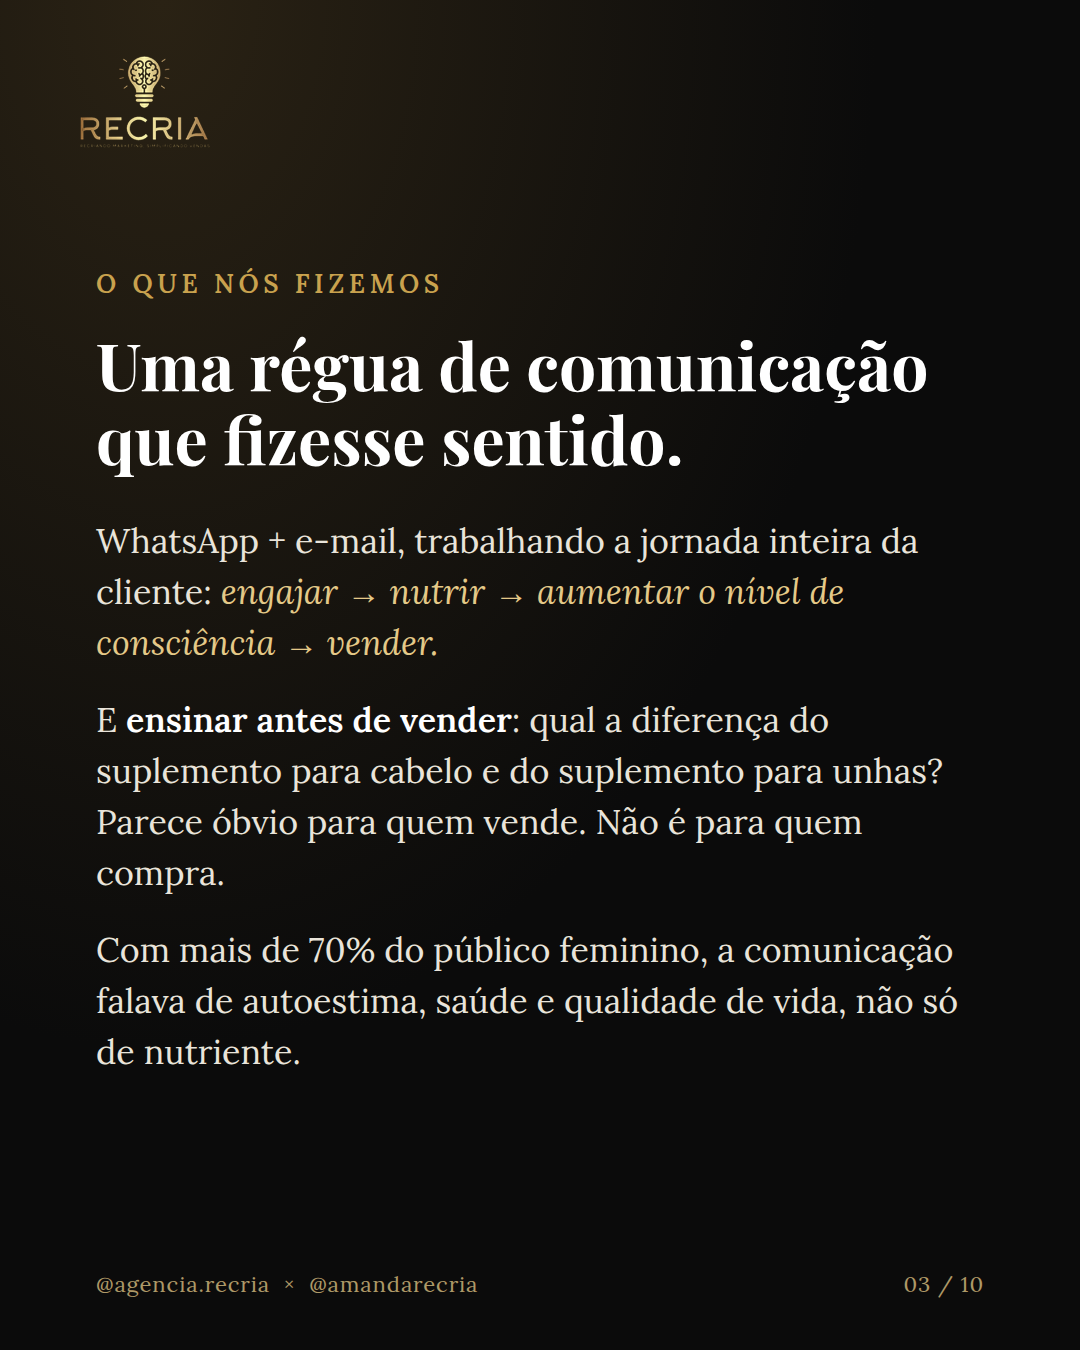
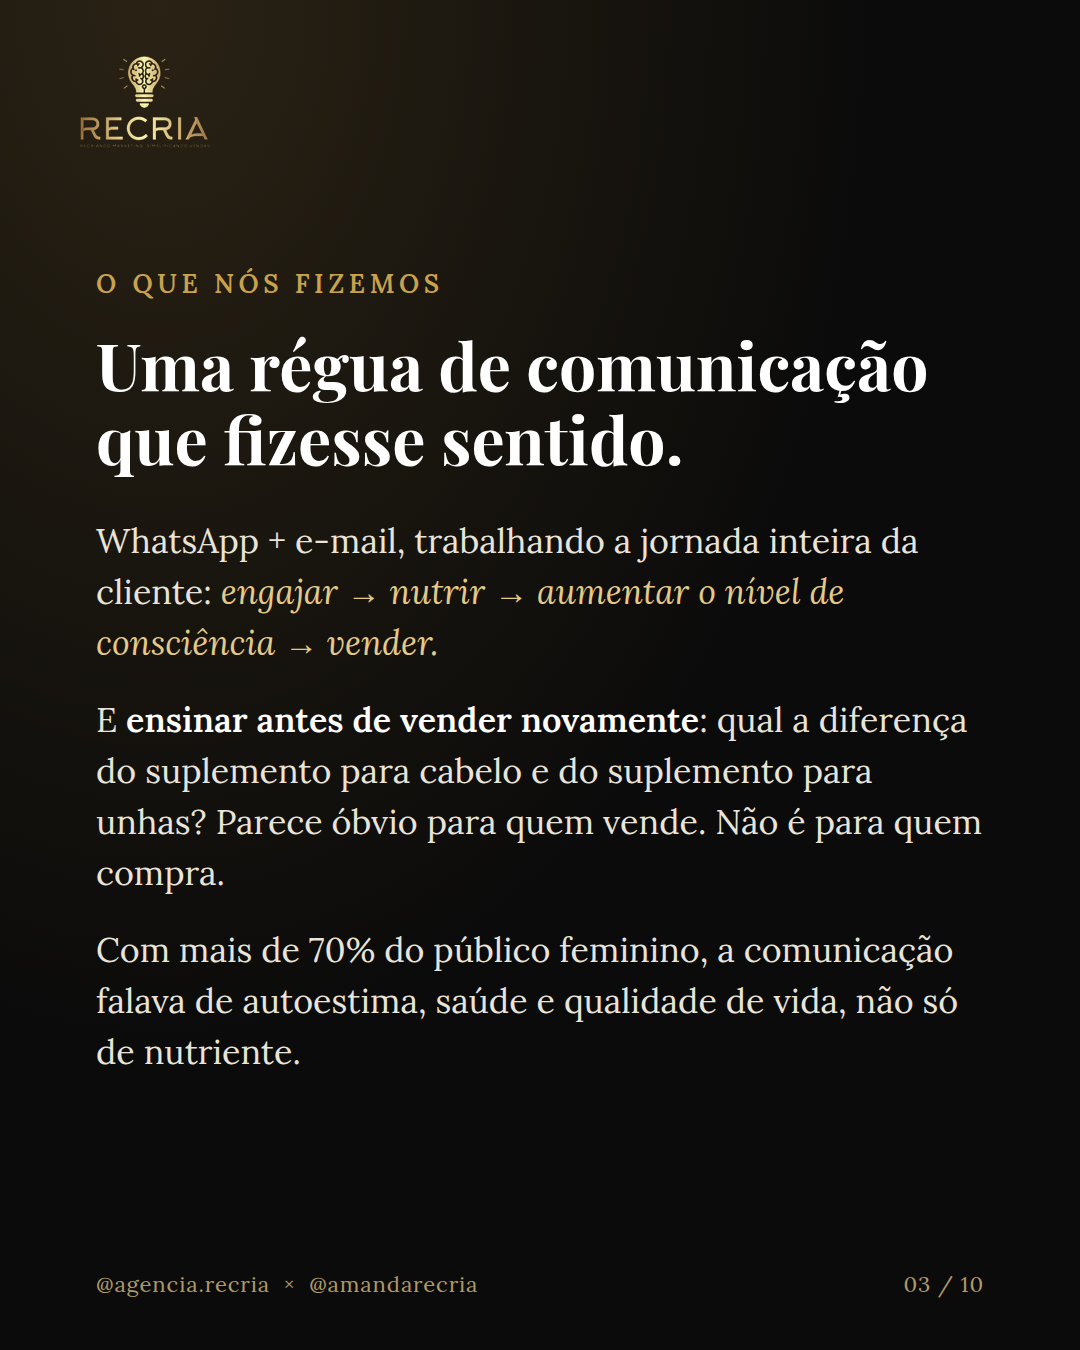
Carrossel 07/10: ajustes nos cards 3, 7 e 8
Claude-Session: https://claude.ai/code/session_01RDM8d5cVD9w4uwiMSyLkgt

Changed region(s): [[0.0917, 0.5289, 0.9167, 0.6222]]

diff --git a/agencia-recria/copies/carrosseis-outubro-2026.md b/agencia-recria/copies/carrosseis-outubro-2026.md
@@ -35,7 +35,7 @@ A empresa só entrava em contato com quem já era cliente para vender: oferta, o
 ### Card 3
 O que nós fizemos: **Uma régua de comunicação que fizesse sentido.**
 WhatsApp + e-mail, trabalhando a jornada inteira da cliente: engajar → nutrir → aumentar o nível de consciência → vender.
-E **ensinar antes de vender**: qual a diferença do suplemento para cabelo e do suplemento para unhas? Parece óbvio para quem vende. Não é para quem compra.
+E **ensinar antes de vender novamente**: qual a diferença do suplemento para cabelo e do suplemento para unhas? Parece óbvio para quem vende. Não é para quem compra.
 Com mais de 70% do público feminino, a comunicação falava de autoestima, saúde e qualidade de vida, não só de nutriente.
 
 ### Card 4
@@ -57,7 +57,7 @@ Apenas valorizando e comunicando de forma personalizada com cada tipo de cliente
 
 ### Card 7
 **A cliente se sentiu acolhida e valorizada.**
-Essa base estava havia 4 anos com a marca. Comprava só quando ela mesma decidia, ou nem voltava, porque só recebia oferta.
+Essa base já estava ativa havia 4 anos com a marca. Porém, só comprava quando a própria cliente decidia comprar, ou nem voltava, porque era metralhada de oferta, oferta, oferta. E isso gerava o efeito inverso: **repelia a volta**.
 Quando percebeu que a empresa se importava com a nova vida que ela estava construindo, **o antes e o depois da bariátrica**, passou a se sentir parte da marca.
 Também criamos uma comunidade nos canais da marca. E ela passou a comprar todo mês e a adquirir os pacotes de assinatura, **mesmo sem oferta**.
 
@@ -65,7 +65,7 @@ Também criamos uma comunidade nos canais da marca. E ela passou a comprar todo 
 **Tráfego pago nem sempre é o salvador da pátria.**
 Você já pagou para conquistar cada cliente da sua base. **Quantas vezes você vendeu para ele? Só uma?**
 Já calculou o seu **CAC** (quanto custa conquistar um cliente) e o **LTV** (quanto ele deixa com você ao longo do tempo)?
-Às vezes o caminho é nutrir a base. Às vezes é atrair novos clientes. Às vezes são os dois. Às vezes é reestruturar o negócio.
+Cada negócio tem o seu momento de olhar para cada pilar da empresa. Talvez agora o seu caminho seja **nutrir a base** que você já tem. Talvez seja **atrair novos clientes**, num momento de expansão. Talvez você esteja começando e precise **equilibrar os dois pilares** ao mesmo tempo. Ou até fazer um **rebranding** ou reconstruir o seu negócio do zero.
 *Cada negócio pede um diagnóstico específico.*
 
 ### Card 9 — CTA
